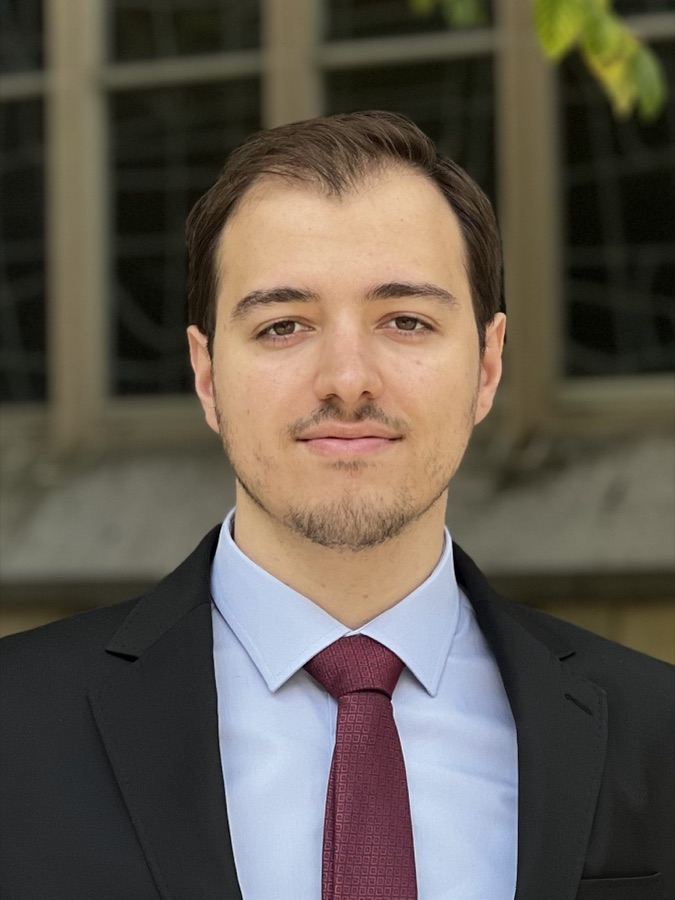
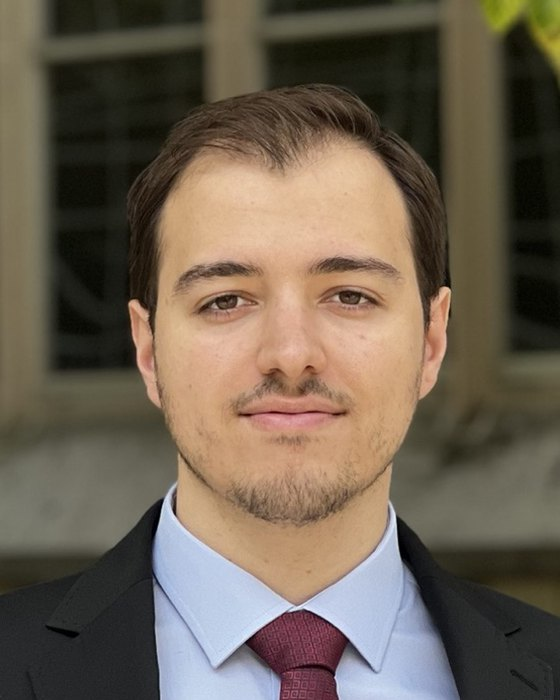
Add Political Studies article; trim About to four movements; soften hero portrait

diff --git a/about/index.html b/about/index.html
@@ -46,7 +46,7 @@
   <div class="wrap">
     <div>
       <p class="eyebrow">About</p>
-      <h1 style="font-size:clamp(2rem,4vw,2.9rem)">I have always loved solving difficult problems &mdash; especially when finding a better answer can make a real difference.</h1>
+      <h1 style="font-size:clamp(2rem,4vw,2.9rem)">I have always loved solving difficult problems &mdash; especially when the answer can make a real difference.</h1>
       <p class="intro" style="margin-top:1.4rem">I am drawn to situations where the information is incomplete, the system is changing, and a decision still has to be made. My instinct is to bring structure to the uncertainty: clarify the real question, determine what the evidence can support, and turn the analysis into something people can act on.</p>
     </div>
     <img class="about-portrait" src="/assets/portrait.jpg" alt="Ubeydullah Ademi" width="675" height="900">
@@ -58,8 +58,8 @@
     <div class="reveal"><h2>What connects my work</h2><span class="rule"></span></div>
     <div class="measure reveal reveal-d1">
       <p>That motivation has taken me across research, data consulting, entrepreneurship, and public communication. The settings are different, but the work often begins in the same place: an important problem without a ready-made playbook.</p>
-      <p>Research taught me to define a question precisely enough that evidence can answer it. Statistics taught me to be honest about uncertainty. Entrepreneurship taught me that analysis eventually has to become a decision &mdash; and that someone must take responsibility for what follows. Consulting reinforced the importance of beginning with the decision itself, rather than with the most sophisticated method available. Teaching and public communication taught me that an answer no one can understand is not yet a useful answer.</p>
-      <p>Together, these experiences shaped how I work: analytically, collaboratively, and with a strong bias toward useful outcomes.</p>
+      <p>Across those settings, I have learned to approach difficult problems from several directions. Research taught me to define the question precisely. Statistics taught me to be honest about uncertainty. Building a business taught me that analysis must eventually become a decision &mdash; and that someone must take responsibility for what follows. Consulting and teaching reinforced another lesson: an answer is useful only when it addresses the real problem and can be understood by the people who must act on it.</p>
+      <p>That is how I try to work: analytically, collaboratively, and with a strong bias toward useful outcomes.</p>
     </div>
   </div>
 </section>
@@ -72,17 +72,6 @@
       <p>At Northwestern University, I am completing a Ph.D. in Political Science and hold an M.S. in Applied Statistics. My dissertation develops causal methods for evaluating decisions that change not only outcomes, but also the systems through which those outcomes unfold.</p>
       <p>I also work with research teams on study design, complex data, statistical modeling, causal inference, and the communication of quantitative findings. Beyond academia, I have helped build and operate a consumer business and developed public-facing projects that made complex ideas accessible to broad audiences.</p>
       <p>I am increasingly interested in another version of the same underlying problem: how people make consequential decisions when judgment is shared with AI. In particular, I am interested in when AI complements human expertise, when it produces overreliance, and how repeated interaction with intelligent systems changes trust, behavior, and institutions.</p>
-    </div>
-  </div>
-</section>
-
-<section class="section">
-  <div class="wrap">
-    <div class="reveal"><h2>Where I come from</h2><span class="rule"></span></div>
-    <div class="measure reveal reveal-d1">
-      <p>I studied Political Science and International Relations at Bo&#287;azi&#231;i University in Istanbul, completing a B.A. with a double major in History and Dean&rsquo;s High Honors, followed by an M.A. My graduate work there focused on elite networks in nationalist movements &mdash; which is where the dataset behind much of my later research began.</p>
-      <p>I am also a graduate of the Abdullah Tivnikli ISAR Foundation four-year program, which combines the classical study of Madrasah education with a rigorous Arabic language curriculum, and I studied Modern Standard Arabic at the Qasid Institute in Amman.</p>
-      <p>I am a native speaker of Turkish and Albanian, work professionally in English and Arabic, and read French and Ottoman Turkish. That range is not incidental to the research: the elite-network dataset could not have been built without it.</p>
     </div>
   </div>
 </section>

diff --git a/research/index.html b/research/index.html
@@ -80,6 +80,13 @@
       <h2>Publications</h2>
       <span class="rule"></span>
     </div>
+    <div class="measure reveal reveal-d1" style="margin-bottom:2.25rem">
+      <h3 style="margin-bottom:.5rem">From transition to diffusion: impact of democratic transitions on neighboring party politics</h3>
+      <p class="meta" style="margin-bottom:.7rem">Ademi, U., &amp; Kimya, F. (2026). <em>Political Studies</em>.</p>
+      <p><strong>The question.</strong> When a country democratizes, do the effects stop at its borders &mdash; or do they reshape party politics in neighboring states?</p>
+      <p class="meta"><a href="https://doi.org/10.1177/00323217251412065">Read the article (DOI)</a></p>
+    </div>
+
     <div class="measure reveal reveal-d1">
       <h3 style="margin-bottom:.5rem">Democratic transition and party polarization: a fuzzy regression discontinuity design approach</h3>
       <p class="meta" style="margin-bottom:.7rem">Ademi, U., &amp; Kimya, F. (2023). <em>Party Politics</em>.</p>
@@ -98,10 +105,6 @@
     </div>
     <div class="cards">
       <article class="card reveal">
-        <h3>Diffusion of transitions: a measurement through party polarization</h3>
-        <p>How regional democratic transitions relate to party polarization in neighbouring countries. With F&#305;rat Kimya.</p>
-      </article>
-      <article class="card reveal reveal-d1">
         <h3>Shifting alliances among nationalist elites</h3>
         <p>Why secessionist factions come to dominate some nationalist movements while autonomist elites prevail in others — studied through three decades of recorded interaction among minority nationalist elites. With Ba&#351;ak Tarakta&#351;.</p>
       </article>

diff --git a/assets/style.css b/assets/style.css
@@ -77,12 +77,14 @@ strong{color:var(--ink);font-weight:600}
 .hero h1{margin-bottom:1.1rem}
 
 .hero-portrait{
-  width:100%;max-width:200px;aspect-ratio:4/5;object-fit:cover;object-position:50% 18%;
-  border-radius:3px;margin-left:auto;border:1px solid var(--rule);filter:saturate(.92);
+  width:100%;max-width:210px;aspect-ratio:4/5;object-fit:cover;object-position:50% 30%;
+  border-radius:20px;margin-left:auto;border:0;filter:saturate(.94);
+  box-shadow:0 12px 30px rgba(24,35,52,.11), 0 2px 6px rgba(24,35,52,.05);
 }
 .about-portrait{
   width:100%;max-width:300px;aspect-ratio:4/5;object-fit:cover;object-position:50% 20%;
-  border-radius:3px;margin-left:auto;border:1px solid var(--rule);filter:saturate(.92);
+  border-radius:20px;margin-left:auto;border:0;filter:saturate(.94);
+  box-shadow:0 12px 30px rgba(24,35,52,.11), 0 2px 6px rgba(24,35,52,.05);
 }
 
 .btn-row{display:flex;gap:.9rem;flex-wrap:wrap;margin-top:.4rem}
